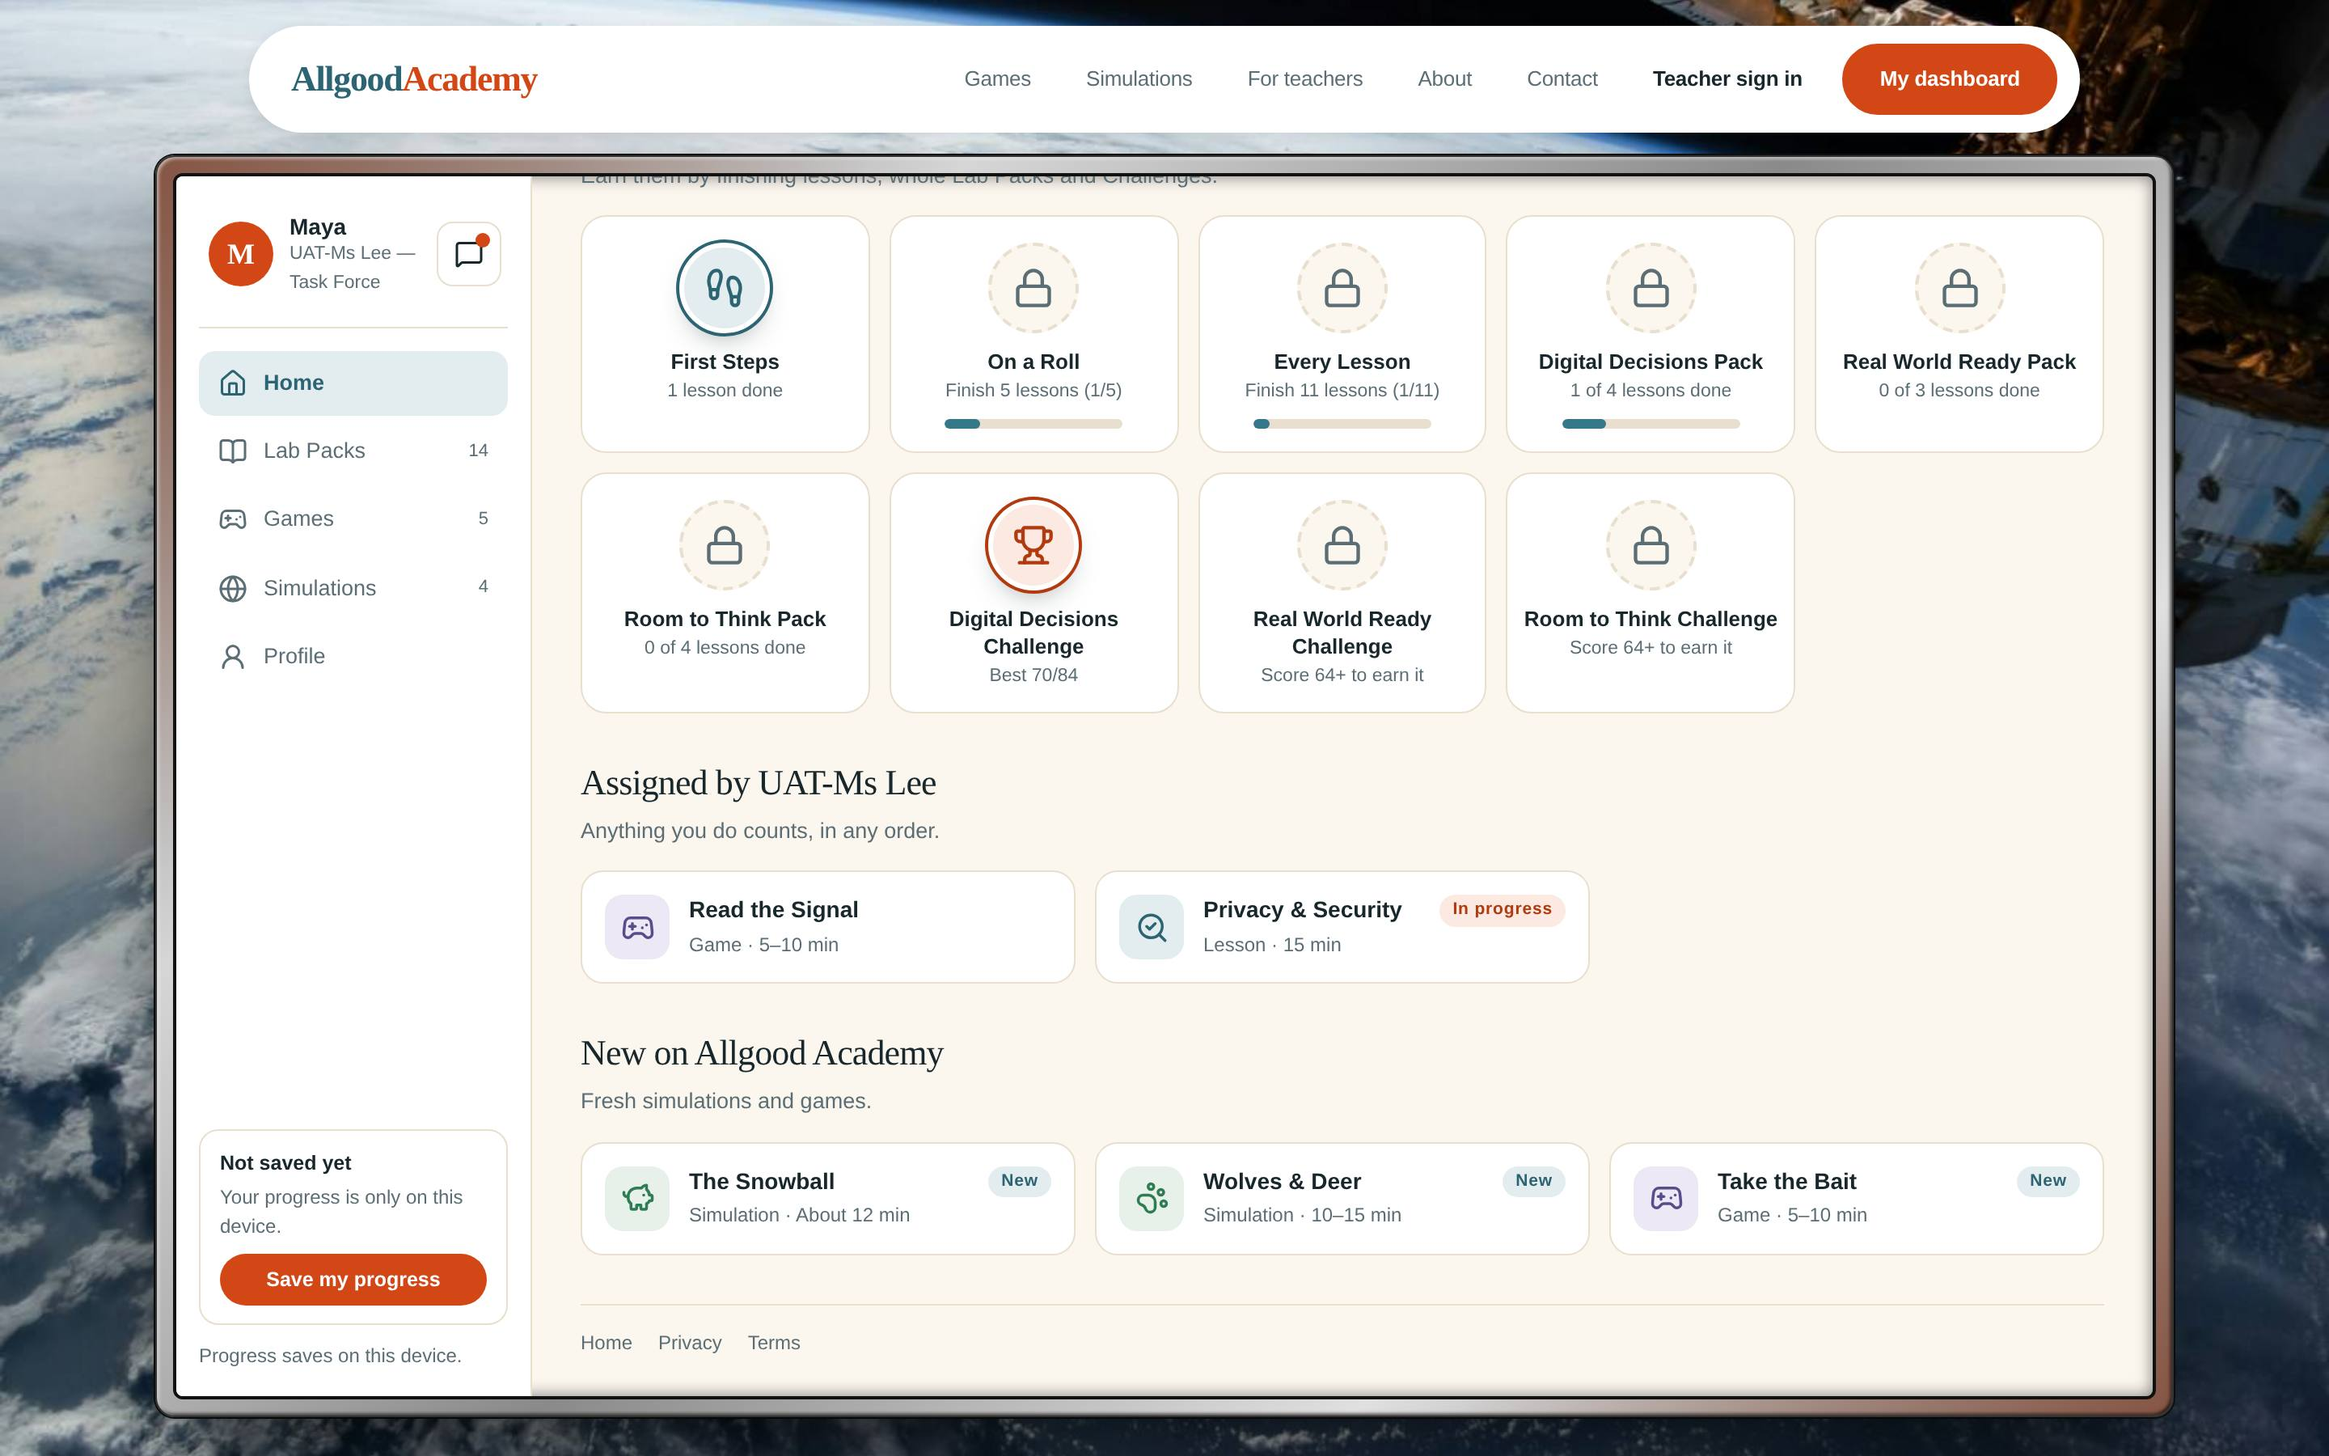
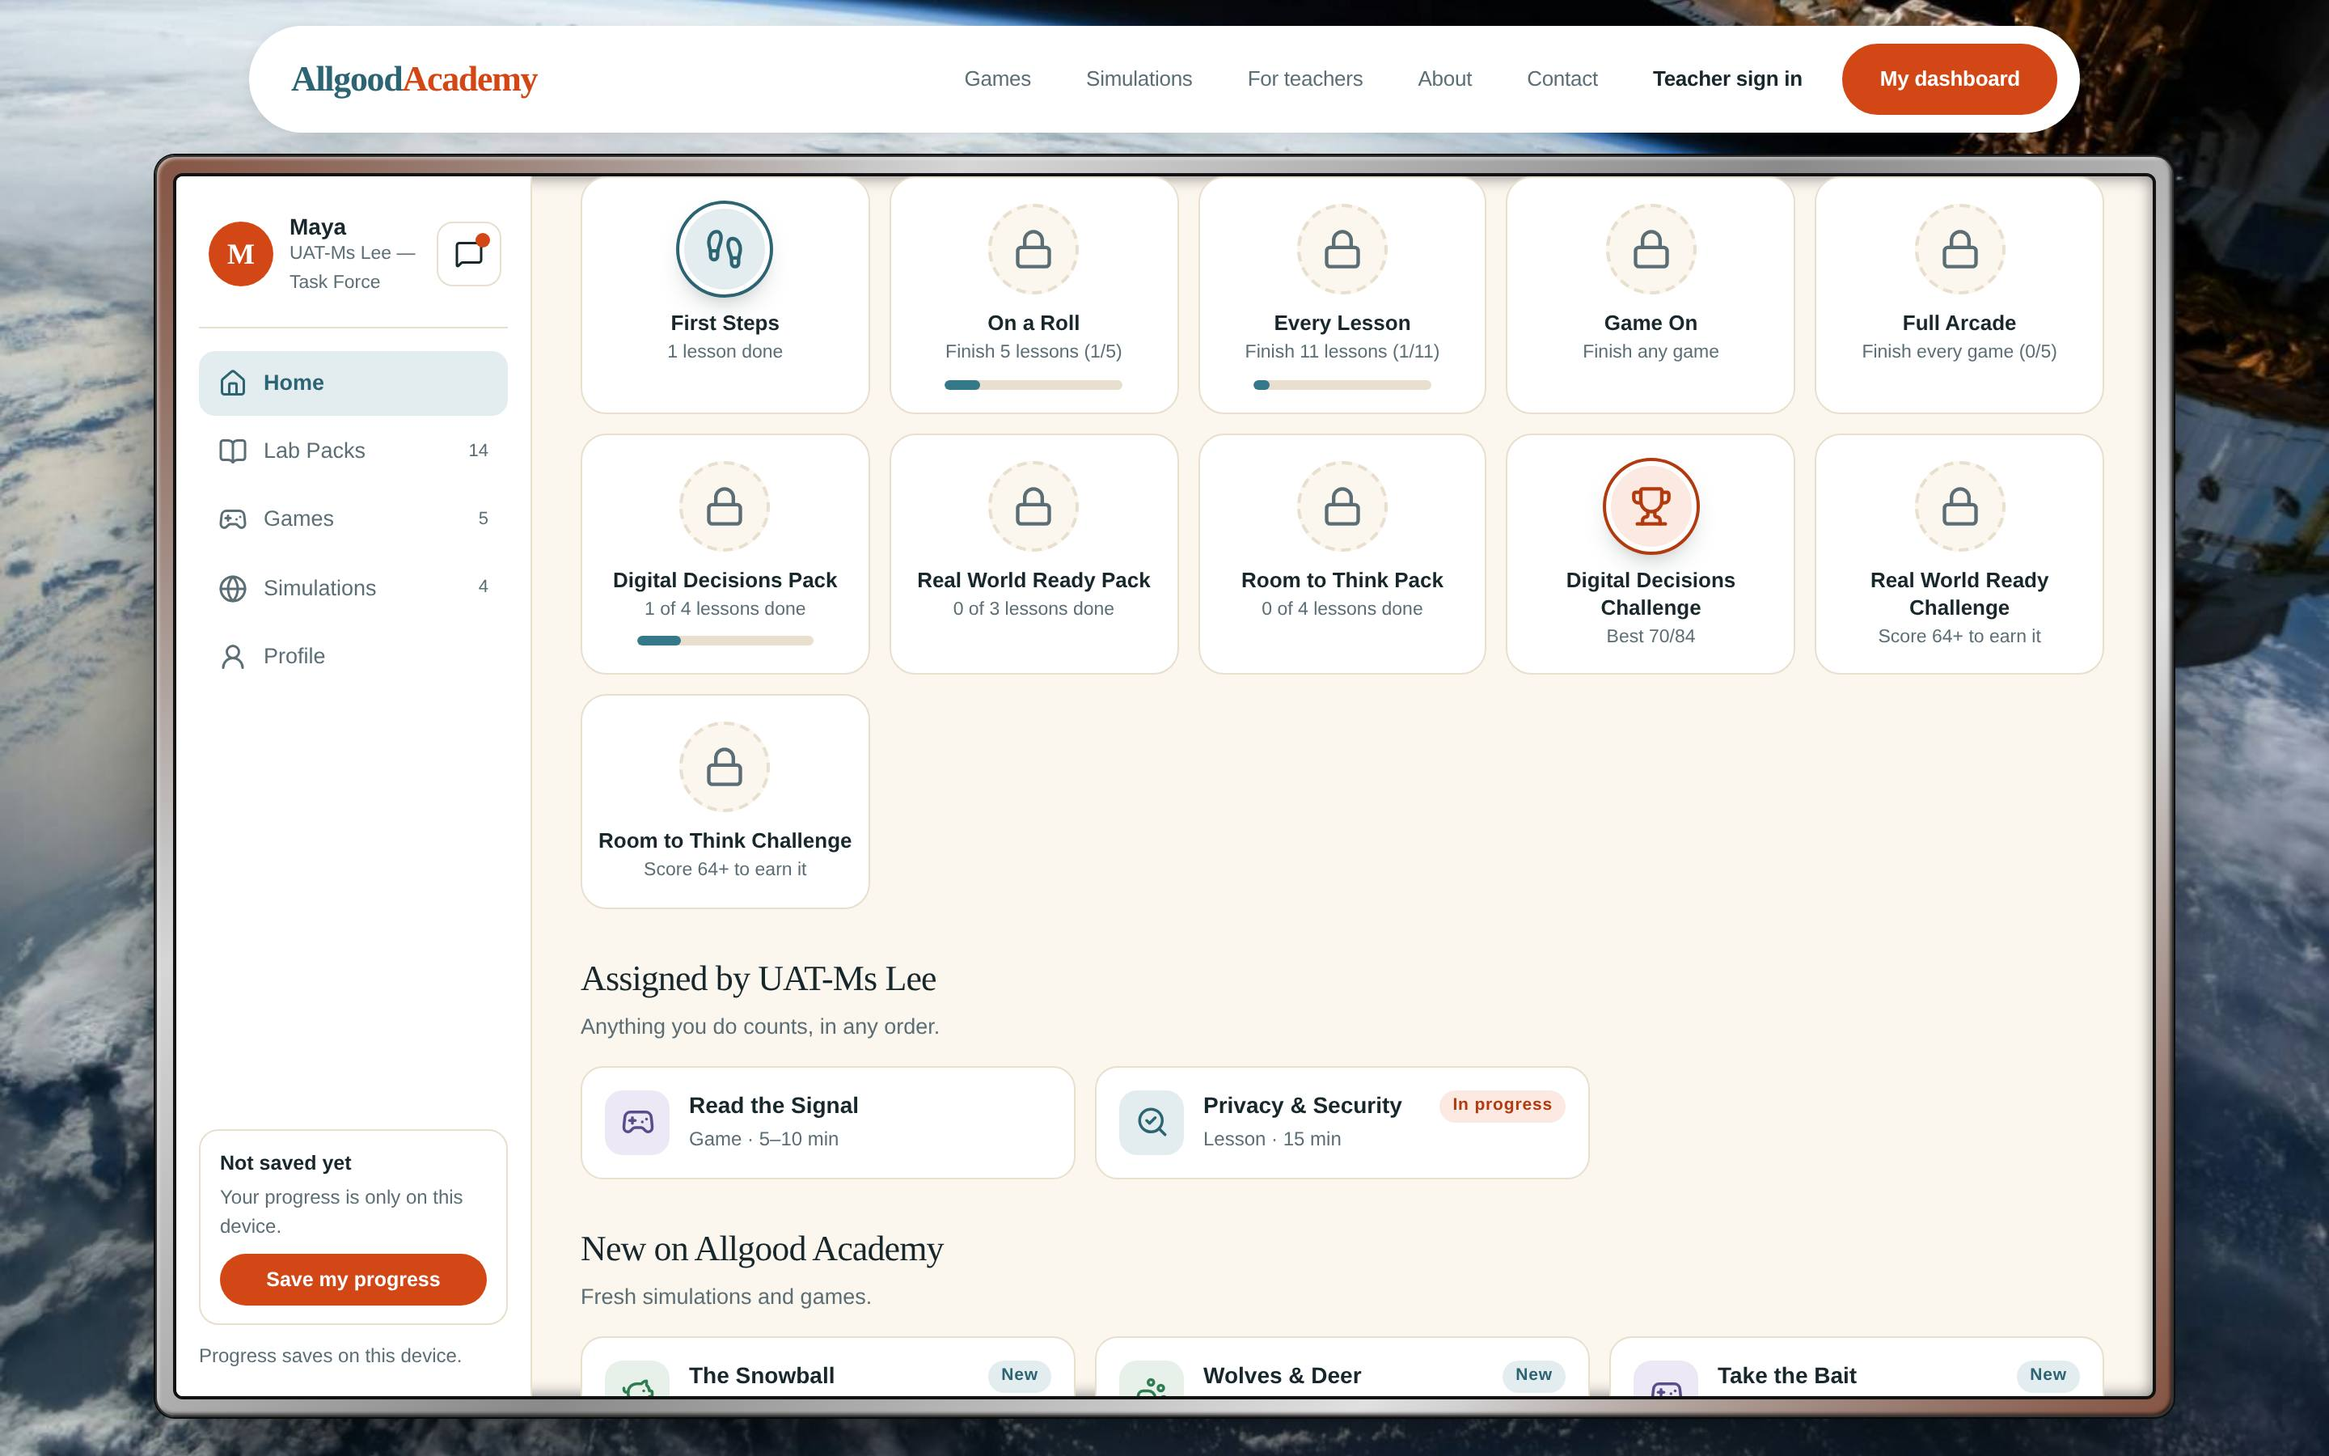
Games count on the dashboard and are reported in Insider like courses
- /js/game-finish.js: when a game calls Telemetry.complete(), write the student's own
  module_progress/{gameId} { completed, finishedCount, lastFinishedAt }. Games otherwise
  leave only admin-read telemetry, so a student could never see a game as finished.
  Existing collection: owner-writable, teacher-readable, in Insider's delete tool.
- Dashboard: Games finished stat, Game On and Full Arcade badges.
- Insider: the four funnel games are COURSES rows (Courses page, learner status,
  classroom grid, exports), status from their telemetry sessions + the new record.
  check-modules now requires every visible game to have one; docs steps table updated.

Claude-Session: https://claude.ai/code/session_01KoHTDDkMiMwxpFkuhPBfqz

diff --git a/public/dashboard/index.html b/public/dashboard/index.html
@@ -405,7 +405,7 @@ body.present .nav-shell.activity{display:none}
 
           <section class="sec" aria-labelledby="badges-title">
             <div class="sechead"><h2 id="badges-title">Badges</h2><span class="count" id="badges-count"></span></div>
-            <p>Earn them by finishing lessons, whole Lab Packs and Challenges.</p>
+            <p>Earn them by finishing lessons, games, whole Lab Packs and Challenges.</p>
             <div class="badges" id="badges"></div>
           </section>
 
@@ -635,8 +635,8 @@ const isDone = (m) => (STATUS.get(m.id) || {}).state === 'done';
 function badgeList() {
     const labs = MODULES.filter((m) => m.type === 'lab');
     const labsDone = labs.filter(isDone).length;
-    // Games are not in here: most games record only telemetry, which a student can't read
-    // back, so a game badge could never be earned honestly yet.
+    const games = MODULES.filter((m) => m.type === 'game');
+    const gamesDone = games.filter(isDone).length;
     const milestone = (name, icon, n) => ({ name, icon, tone: 'teal', earned: labsDone >= n,
         hint: labsDone >= n ? `${n === labs.length ? 'Every' : n} lesson${n === 1 ? '' : 's'} done` : (n === 1 ? 'Finish any lesson' : `Finish ${n} lessons (${labsDone}/${n})`),
         progress: Math.min(1, labsDone / n) });
@@ -644,6 +644,9 @@ function badgeList() {
         milestone('First Steps', 'footprints', 1),
         milestone('On a Roll', 'flame', Math.min(5, labs.length)),
         milestone('Every Lesson', 'award', labs.length),
+        { name: 'Game On', icon: 'gamepad-2', tone: 'plum', earned: gamesDone >= 1, hint: gamesDone >= 1 ? 'Finished a first game' : 'Finish any game' },
+        { name: 'Full Arcade', icon: 'joystick', tone: 'plum', earned: games.length > 0 && gamesDone === games.length,
+            hint: gamesDone === games.length ? 'Every game finished' : `Finish every game (${gamesDone}/${games.length})`, progress: games.length ? gamesDone / games.length : 0 },
     ];
     for (const p of PACKS) {
         const inPack = labs.filter((m) => m.pack === p.id);
@@ -665,7 +668,7 @@ function badgeList() {
 function renderProgress() {
     const labs = MODULES.filter((m) => m.type === 'lab');
     const challenges = MODULES.filter((m) => m.type === 'challenge');
-    const packsDone = PACKS.filter((p) => { const l = labs.filter((m) => m.pack === p.id); return l.length && l.every(isDone); }).length;
+    const games = MODULES.filter((m) => m.type === 'game');
     const badges = badgeList();
     const earned = badges.filter((b) => b.earned).length;
     const tile = (label, n, of, tone) => `<div class="stat t-${tone}"><span class="lbl">${esc(label)}</span>
@@ -673,7 +676,7 @@ function renderProgress() {
         <span class="bar" aria-hidden="true"><i style="width:${of ? Math.round((n / of) * 100) : 0}%"></i></span></div>`;
     $('stats').innerHTML = tile('Lessons done', labs.filter(isDone).length, labs.length, 'lab')
         + tile('Challenges passed', challenges.filter(isDone).length, challenges.length, 'challenge')
-        + tile('Lab Packs complete', packsDone, PACKS.length, 'game')
+        + tile('Games finished', games.filter(isDone).length, games.length, 'game')
         + tile('Badges', earned, badges.length, 'badge');
     $('badges-count').textContent = `${earned} of ${badges.length} earned`;
     $('badges').innerHTML = badges.map((b) => `<div class="badge tone-${b.tone}${b.earned ? ' on' : ''}" role="listitem">
@@ -749,8 +752,12 @@ async function loadStatus(uid) {
         getDocs(collection(db, 'artifacts', appId, 'users', uid, 'game_scores')).catch(() => ({ docs: [] })),
     ]);
     for (const d of progress.docs) {
-        if (!MODULES.some((m) => m.id === d.id)) continue;
-        bump(d.id, { at: Math.max(ms(d.data().lastUpdated), (status.get(d.id) || {}).at || 0), frac: fractionOf(d.data()) });
+        const m = MODULES.find((x) => x.id === d.id);
+        if (!m) continue;
+        const data = d.data();
+        // A finished game writes { completed: true } here (/js/game-finish.js).
+        const gameDone = m.type === 'game' && data.completed === true;
+        bump(d.id, { at: Math.max(ms(data.lastUpdated), (status.get(d.id) || {}).at || 0), frac: fractionOf(data), ...(gameDone ? { state: 'done' } : {}) });
     }
     for (const d of scores.docs) {
         const data = d.data();

diff --git a/public/insider/index.html b/public/insider/index.html
@@ -268,6 +268,43 @@
                 scoreOf: d => typeof d.percentage === 'number' ? d.percentage : null,
                 progressStep: p => Object.keys(p.answeredScenarioScores || {}).length,
             },
+            // ---- The four funnel games (2026-11-25). Same shape as a course, so every Insider
+            // page (Courses, a learner's status, the Classrooms grid, exports) reports them the
+            // way it reports lessons. Status comes from their telemetry sessions (module = id)
+            // and, from this release, a module_progress/{id} { completed } record written when
+            // a game is finished (/js/game-finish.js). Take the Bait stays off-funnel below.
+            {
+                id: 'read-the-signal', name: 'Read the Signal', category: 'Game',
+                gameNames: ['Read the Signal'], launchNames: ['Read the Signal'],
+                stepsTotal: 10, stepLabel: 'rounds played', stepBucket: 1, scored: false,
+                isComplete: d => d.completed === true,
+                scoreOf: d => typeof d.percentage === 'number' ? d.percentage : null,
+                progressStep: p => (p.completed === true ? 10 : 0),
+            },
+            {
+                id: 'before-you-send', name: 'Before You Send', category: 'Game',
+                gameNames: ['Before You Send'], launchNames: ['Before You Send'],
+                stepsTotal: 10, stepLabel: 'rounds played', stepBucket: 1, scored: false,
+                isComplete: d => d.completed === true,
+                scoreOf: d => typeof d.percentage === 'number' ? d.percentage : null,
+                progressStep: p => (p.completed === true ? 10 : 0),
+            },
+            {
+                id: 'the-rumor-mill', name: 'The Rumor Mill', category: 'Game',
+                gameNames: ['The Rumor Mill'], launchNames: ['The Rumor Mill'],
+                stepsTotal: 10, stepLabel: 'rounds played', stepBucket: 1, scored: false,
+                isComplete: d => d.completed === true,
+                scoreOf: d => typeof d.percentage === 'number' ? d.percentage : null,
+                progressStep: p => (p.completed === true ? 10 : 0),
+            },
+            {
+                id: 'money-moves', name: 'Money Moves', category: 'Game',
+                gameNames: ['Money Moves'], launchNames: ['Money Moves'],
+                stepsTotal: 10, stepLabel: 'rounds played', stepBucket: 1, scored: false,
+                isComplete: d => d.completed === true,
+                scoreOf: d => typeof d.percentage === 'number' ? d.percentage : null,
+                progressStep: p => (p.completed === true ? 10 : 0),
+            },
             {
                 // OFF-FUNNEL. Take the Bait reports on its own telemetry stream and is split
                 // out of every core figure (see OFF_FUNNEL_COURSES below and the Take the Bait

diff --git a/scripts/check-modules.js b/scripts/check-modules.js
@@ -307,8 +307,15 @@ for (const cfg of Object.values(PACKS)) {
 // both directions: a streamed game without it would be counted, and a flagged row that is
 // not a streamed game would silently drop a funnel module from the numbers.
 const offFunnelIds = new Set([...(coursesSrc || '').matchAll(/id:\s*'([^']+)'[^{}]*?offFunnel:\s*true/g)].map(m => m[1]));
-for (const g of streamedGames) {
+// Every visible game is reported in Insider like a course (2026-11-25): it must have a
+// COURSES row under its registry id and name, so its Telemetry.init is checked below.
+for (const g of visibleGames) {
   modulePages[g.id] = GAME_PAGES[g.id];
+  const c = courses.find(x => x.id === g.id);
+  if (!c) fail(`insider: game "${g.id}" has no COURSES entry — Insider would not report it`);
+  else if (c.name !== g.name) fail(`insider: game "${g.id}" name "${c.name}" != registry "${g.name}"`);
+}
+for (const g of streamedGames) {
   if (!courses.find(c => c.id === g.id)) fail(`insider: streamed game "${g.id}" has no COURSES entry`);
   else if (!offFunnelIds.has(g.id)) fail(`insider: COURSES "${g.id}" must carry offFunnel: true — it is a streamed game and must stay out of the core figures`);
 }
@@ -318,11 +325,13 @@ for (const c of courses) {
   const page = modulePages[c.id];
   if (!page) { fail(`insider: course "${c.id}" has no known page to check Telemetry.init against`); continue; }
   const src = read(page);
-  const m = src.match(/Telemetry\.init\(\{\s*module:\s*'([^']+)',\s*gameName:\s*'([^']+)',\s*stepsTotal:\s*(\d+)/);
+  const m = src.match(/Telemetry\.init\(\{\s*module:\s*'([^']+)',\s*gameName:\s*'([^']+)',\s*stepsTotal:\s*([A-Za-z_$][\w$]*|\d+)/);
   if (!m) { fail(`${page}: no Telemetry.init({ module, gameName, stepsTotal }) call found`); continue; }
   if (m[1] !== c.id) fail(`${page}: Telemetry module "${m[1]}" != Insider id "${c.id}"`);
   if (!c.gameNames.includes(m[2])) fail(`${page}: Telemetry gameName "${m[2]}" not in Insider gameNames ${JSON.stringify(c.gameNames)}`);
-  if (Number(m[3]) !== c.stepsTotal) fail(`${page}: Telemetry stepsTotal ${m[3]} != Insider stepsTotal ${c.stepsTotal}`);
+  // A game may hold its round size in a named constant (const ROUND_SIZE = 10;).
+  const steps = /^\d+$/.test(m[3]) ? Number(m[3]) : Number((src.match(new RegExp(`const ${m[3]} = (\\d+);`)) || [])[1]);
+  if (steps !== c.stepsTotal) fail(`${page}: Telemetry stepsTotal ${m[3]} (${steps}) != Insider stepsTotal ${c.stepsTotal}`);
 }
 
 // --- the four games' Telemetry.init

diff --git a/public/js/game-finish.js b/public/js/game-finish.js
@@ -1,0 +1,36 @@
+// A per-student "I finished this game" record (2026-11-25). Loaded by telemetry.js when a
+// module calls Telemetry.complete(). It writes only for registry GAMES.
+//
+// Why: games report through telemetry, and a student can't read telemetry back (sessions
+// and events are admin-read), so a student's dashboard could never show a game as done or
+// award a game badge. This writes the smallest readable record into the student's own
+// module_progress/{gameId}, the same place lessons keep theirs:
+//   { completed: true, finishedCount: n, lastFinishedAt }
+// module_progress is already owner-writable (firestore.rules #2b), teacher-readable for
+// their class, read by Insider (the game's COURSES row maps it), and covered by Insider's
+// delete-this-user tool. No new collection, no rules change. Lessons and Challenges are
+// skipped: they write their own module_progress.
+import { doc, setDoc, increment, serverTimestamp } from 'https://www.gstatic.com/firebasejs/11.6.1/firebase-firestore.js';
+
+export async function recordGameFinish({ module: moduleId, gameName } = {}) {
+    const core = window.AuthCore;
+    const user = core && core.auth && core.auth.currentUser;
+    if (!user || !moduleId) return;
+    let game = null;
+    try {
+        const reg = await fetch('/data/modules-registry.json').then((r) => r.json());
+        game = (reg.modules || []).find((m) => m.type === 'game' && !m.hidden && !m.retired
+            && (m.id === moduleId || m.name === gameName)) || null;
+    } catch (e) { return; }
+    if (!game) return;
+    try {
+        await setDoc(doc(core.db, 'artifacts', core.appId, 'users', user.uid, 'module_progress', game.id), {
+            completed: true,
+            finishedCount: increment(1),
+            lastFinishedAt: serverTimestamp(),
+            lastUpdated: serverTimestamp(),
+        }, { merge: true });
+    } catch (e) {
+        console.warn('[GameFinish] could not record the finish', e);
+    }
+}

diff --git a/public/js/telemetry.js b/public/js/telemetry.js
@@ -446,6 +446,9 @@ function complete(meta) {
     // Never for Pattern Lab, which is outside the student product. Loaded only here, after
     // completion, so it can never stand in front of content.
     if (state.stream !== 'pattern-lab') {
+        // A finished GAME also gets a readable per-student record (games otherwise leave
+        // only telemetry, which a student can't read back). See game-finish.js.
+        import('/js/game-finish.js').then((g) => g.recordGameFinish({ module: state.module, gameName: state.gameName })).catch(() => {});
         import('/js/save-offer.js').then((o) => o.maybeOffer({ module: state.module, gameName: state.gameName })).catch(() => {});
     }
 }

diff --git a/docs/insider-analytics.md b/docs/insider-analytics.md
@@ -162,6 +162,10 @@ the moments that matter. Steps per module:
 | Where You Say It | cases reached | 6 |
 | The Cost of Later | cases reached | 6 |
 | Room to Think Challenge | scenarios answered | 24 |
+| Read the Signal | rounds played | 10 |
+| Before You Send | rounds played | 10 |
+| The Rumor Mill | rounds played | 10 |
+| Money Moves | rounds played | 10 |
 | Take the Bait | Real or Bait answers | 3 |
 
 The table above is hand-written but no longer hand-*checked*: `node scripts/check-modules.js`
